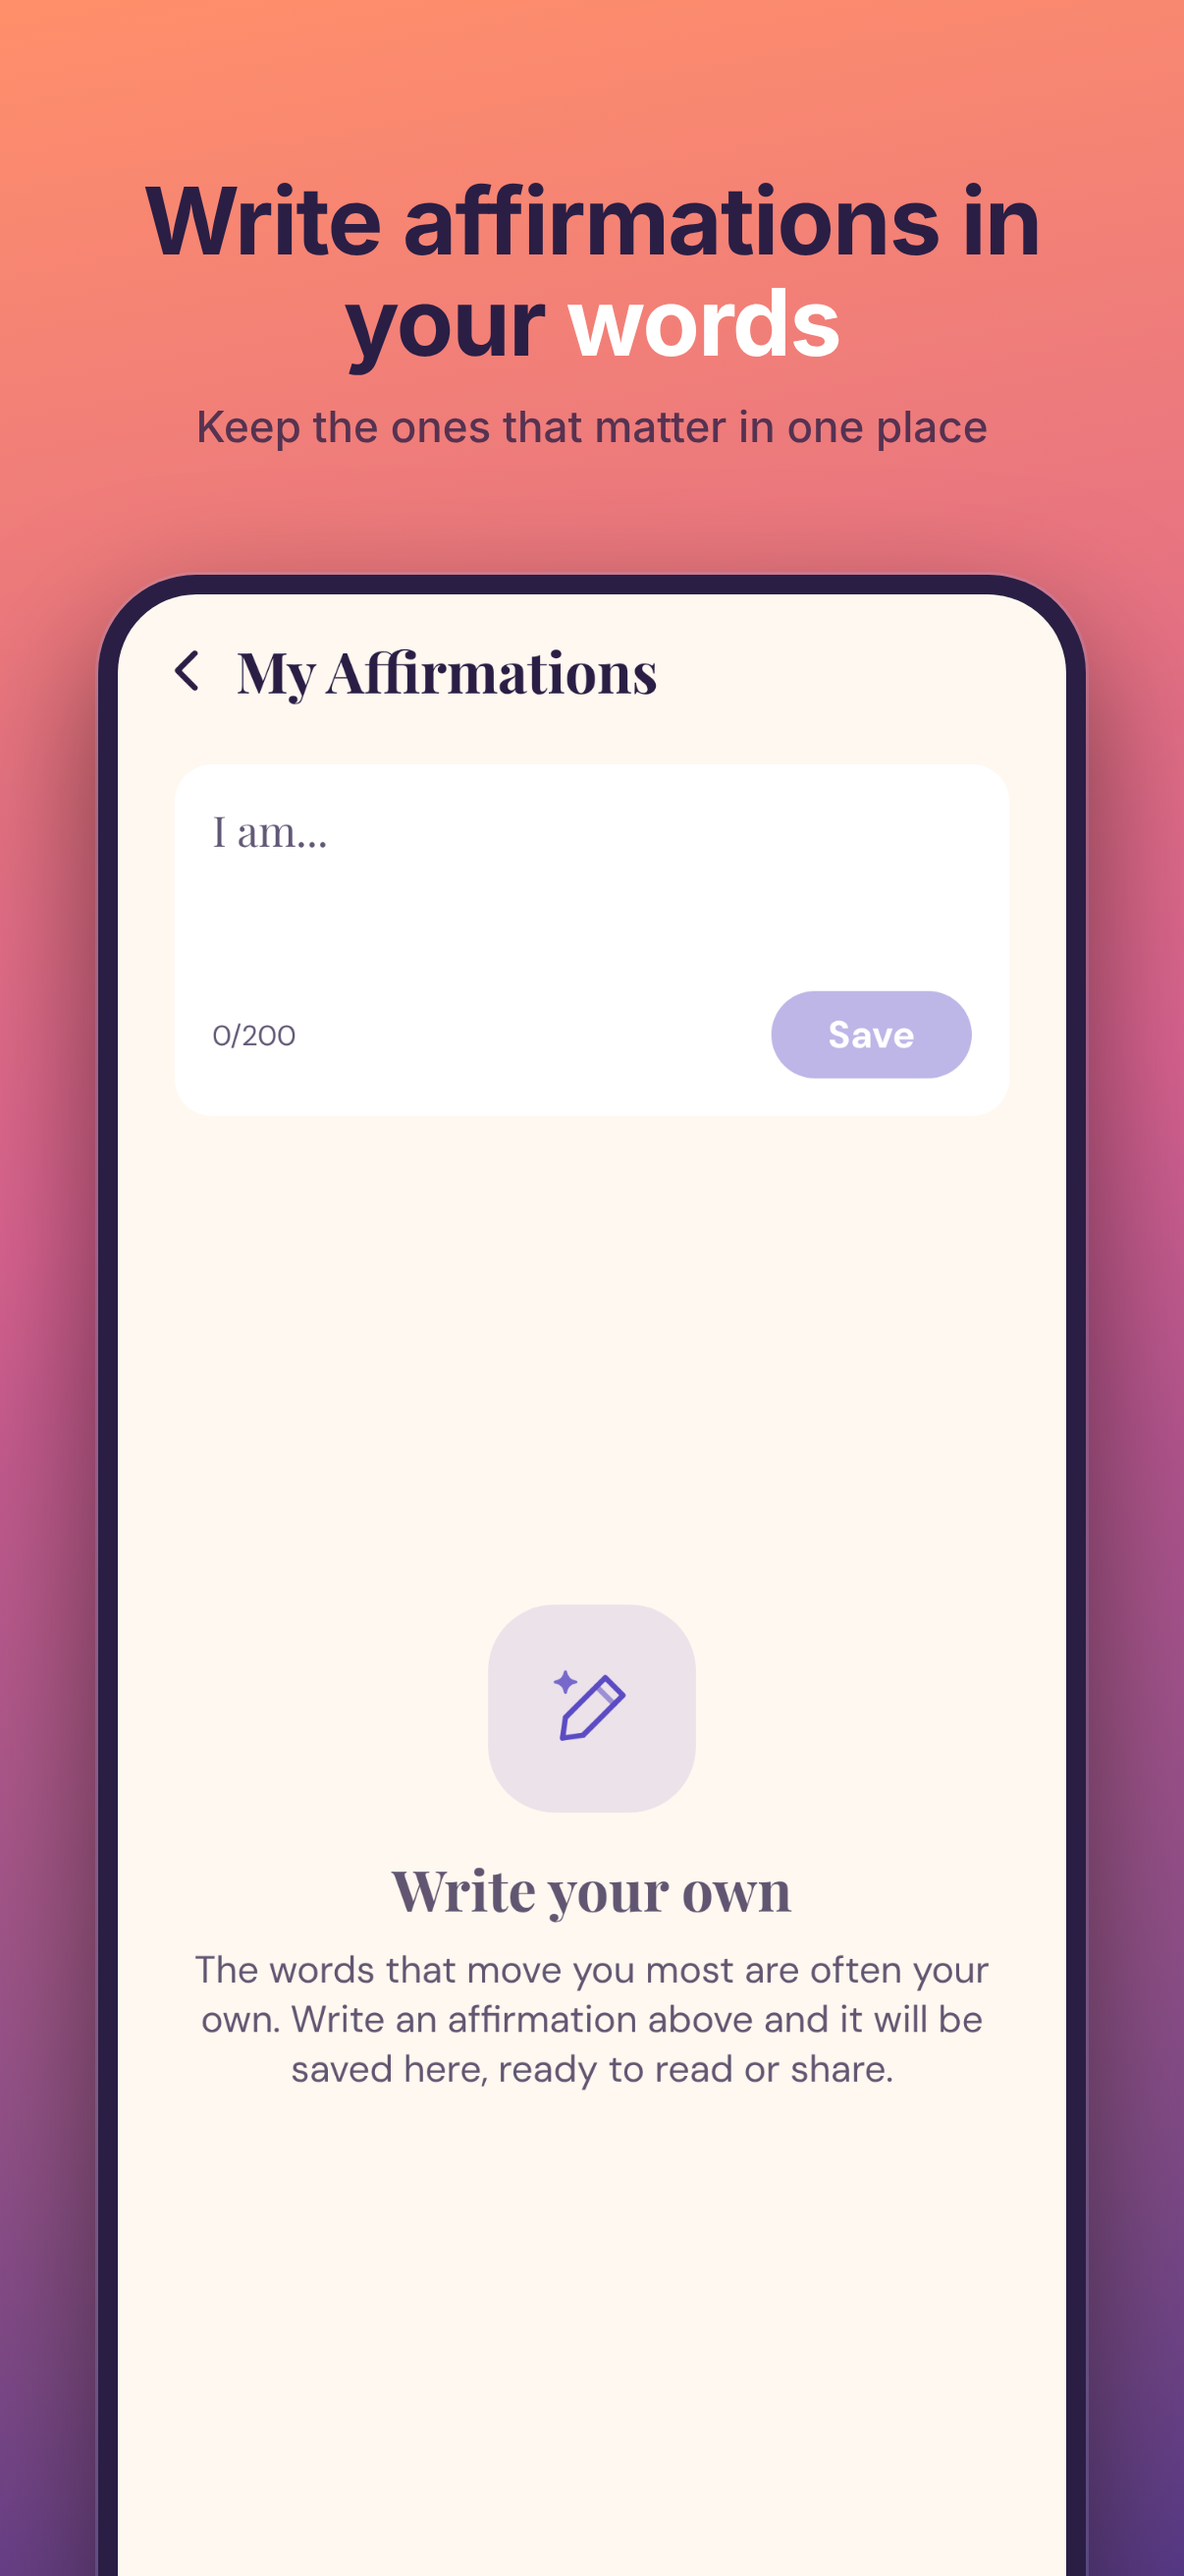
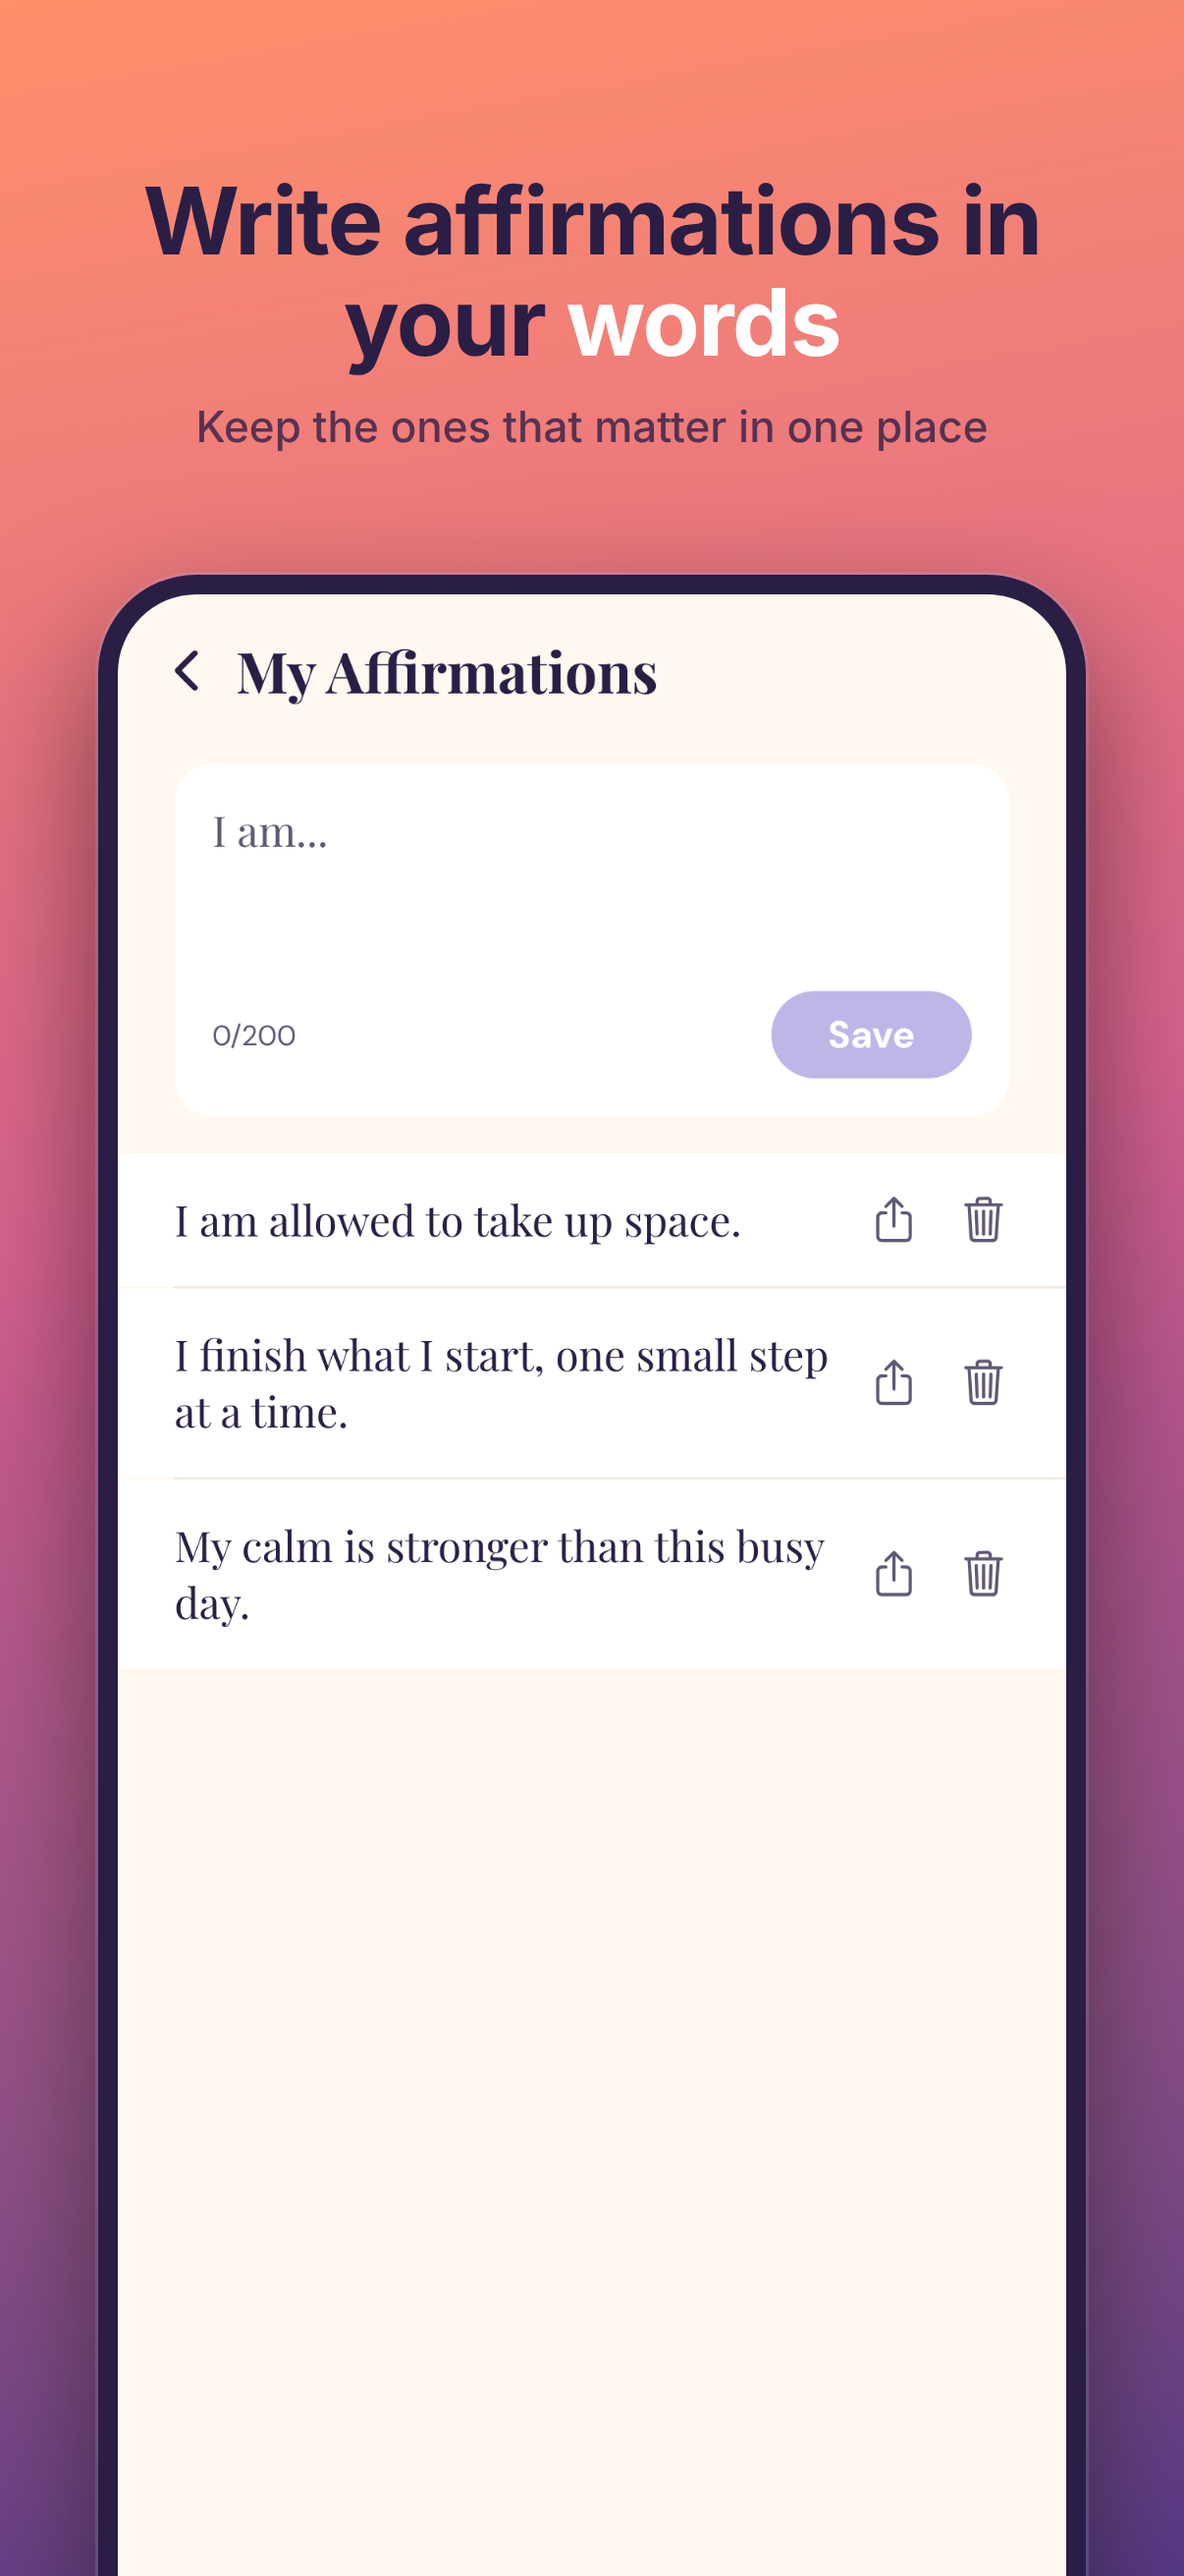
SayBright 1.3.1: outcome first screenshots, new subtitle and promo text, paywall views keep their source

diff --git a/src/services/analytics.ts b/src/services/analytics.ts
@@ -107,7 +107,7 @@ function toPortfolioEvent(
     case 'notification_enabled':
       return [['reminder_opt_in', { source: 'settings' }]];
     case 'paywall_shown':
-      return [['paywall_view', {}]];
+      return [['paywall_view', { source: String(properties?.source ?? 'unknown') }]];
     case 'purchase_completed':
       return [[properties?.trial ? 'trial_start' : 'purchase', {}]];
     case 'purchase_restored':

diff --git a/docs/aso.md b/docs/aso.md
@@ -66,3 +66,44 @@ already indexes it.
 * Keywords: see store.config.json, counted in the sprint log
 * Check on Oct 29 2026: impressions and page views for the 14 days after the
   listing goes live versus 17 impressions and 0 page views for Oct 8 to 15.
+
+## Oct 27 2026 sprint
+
+Why: last 7 days had 660 impressions, 22 page views and 0 installs. On Oct 15
+the same week had 17 impressions, so the title and keyword rewrite fixed search.
+The loss is now on the product page: page views to installs is 0 of 22.
+
+### Fresh look at competitors
+
+Sources: App Store page trackers (Appaloosa Scout, AppFollow) read Oct 27 2026.
+I am still leads with "Daily Affirmations" in the title and its description
+opens on a pain line (negative thoughts on repeat) before the promise. ThinkUp
+is still titled "ThinkUp: Daily Affirmations app". Nothing new found on Shine or
+Motivation since Oct 15. The search pass was thin; the Oct 15 table stands.
+
+### Findings
+
+* Search is no longer the bottleneck; the first screen of the page is. The
+  subtitle and promo text are the only words read before a tap on Get.
+* "Positive Thinking & Self Love" names topics, not what a person gets.
+* The promo text opened on "New look", which tells a stranger nothing.
+* Keyword "calm" is also a competitor brand (Calm), which our rules forbid.
+
+### Decisions
+
+* Subtitle: "Grow Self Love, Think Positive" (30). An outcome in plain words
+  that keeps self, love and positive in the subtitle.
+* Keywords: "calm" out (trademark rule), "mantra" out to make room, "thinking"
+  in so the phrase positive thinking is still covered across subtitle and
+  keywords, "joy" in to use the last characters (100 of 100). Self love, self
+  esteem and self care stay covered through "self" in the subtitle.
+* Promo text leads with the outcome (start each day on your own side) and then
+  the free week for eligible new subscribers.
+* Description unchanged; no sentence was stale.
+* Screenshots reordered to lead with the outcome: 1 today's affirmation on the
+  sunrise (caption Start every day on your side), 2 hear it in your own voice,
+  3 the ten categories, 4 say it out loud, 5 streak, 6 your own affirmations
+  (now filled instead of an empty state). If page views to installs stays at 0
+  after the check, test a first frame that shows saying it aloud.
+* Check on Nov 10 2026: page views to installs for the 14 days after 1.3.1 goes
+  live versus 0 of 22 for Oct 20 to 27.

diff --git a/docs/app-store.md b/docs/app-store.md
@@ -33,3 +33,25 @@ src/services/analytics.ts now also sends the portfolio event list to PostHog (on
 * Ads now request personalized ads only when the person allows tracking in the ATT prompt, which is asked after onboarding. The existing App Privacy answers for AdMob (Device ID and Advertising Data used for tracking, Third Party Advertising) already cover this; nothing new to set.
 * Listing: new screenshots (6.9 inch only, from `npm run screenshots`), URLs on graysmithlabs.com, Apple's standard EULA as Terms, copyright Graysmith Labs LLC. Paywall review shot: store/paywall-review.png.
 * New native code: react-native-svg and the expo-splash-screen config, so 1.3.0 needs a full build, not an over the air update.
+
+## Promotional text rotation (Oct 27 2026, with 1.3.1)
+
+Live with 1.3.1:
+
+> Start each day on your own side with five kind affirmations to say out loud. Premium starts with a free week for eligible new subscribers: all 10 categories and no ads.
+
+Each variant leads with the outcome, then the free week, which applies to
+eligible new subscribers on both the monthly and yearly plans. Rotate one every
+two weeks and log the swap in experiments.md.
+
+Variant A, morning habit angle:
+
+> A kinder morning in a minute or two: five affirmations a day, chosen for what you want more of. Try Premium free for a week if you are an eligible new subscriber.
+
+Variant B, own voice angle:
+
+> Hear kind words in your own voice. Record your favorite affirmations and play them back anytime. Premium starts with a free week for eligible new subscribers.
+
+Variant C, confidence angle:
+
+> Build confidence one sentence at a time. The whole Confidence category is open to everyone, and Premium starts with a free week for eligible new subscribers.
